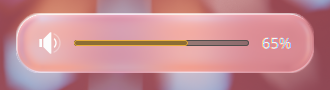
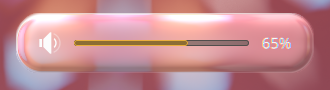
KDE: make the glass edge read as curved, not brightened
The bezel now samples the unblurred background so it acts as a crisp lens
around the frosted middle, is shaded by its curvature (EdgeClarity,
EdgeShading), and the rim light is limited to a thin line instead of
lighting the whole bezel. Retake the screenshots.

Changed region(s): [[0.0606, 0.3111, 0.9697, 0.8222], [0.0303, 0.1556, 0.9394, 0.6222]]

diff --git a/kde-liquid-glass/src/liquidglass.cpp b/kde-liquid-glass/src/liquidglass.cpp
@@ -97,6 +97,7 @@ LiquidGlassEffect::LiquidGlassEffect()
     m_glassPass.opacityLocation = m_glassPass.shader->uniformLocation("opacity");
     m_glassPass.cornerRadiusLocation = m_glassPass.shader->uniformLocation("corner_radius");
     m_glassPass.tintLocation = m_glassPass.shader->uniformLocation("tint");
+    m_glassPass.sharpLocation = m_glassPass.shader->uniformLocation("sharpUnit");
 
     // Defaults: the Three.js prototype's lighting, with a frosted body and a refractive bezel.
     m_params = {
@@ -111,7 +112,7 @@ LiquidGlassEffect::LiquidGlassEffect()
         {"SpecularIntensity", "specular_intensity", 0.0},
         {"Shininess", "shininess", 42.0},
         {"RimWidth", "rim_width", 2.0},
-        {"RimIntensity", "rim_intensity", 1.0},
+        {"RimIntensity", "rim_intensity", 0.6},
         {"RimDirectionalPower", "rim_directional_power", 1.7},
         {"RimPower", "rim_power", 8.0},
         {"RimLightColorIntensity", "rim_light_color_intensity", 2.5},
@@ -120,6 +121,8 @@ LiquidGlassEffect::LiquidGlassEffect()
         {"Brightness", "brightness", 1.05},
         {"Contrast", "contrast", 1.0},
         {"Saturation", "saturation", 1.4},
+        {"EdgeClarity", "edge_clarity", 0.75},
+        {"EdgeShading", "edge_shading", 0.35},
     };
     for (FloatParam &param : m_params) {
         param.location = m_glassPass.shader->uniformLocation(param.uniform);
@@ -751,12 +754,21 @@ void LiquidGlassEffect::blur(const RenderTarget &renderTarget, const RenderViewp
             shader->setUniform(param.location, param.value);
         }
 
+        // Unit 1: the unblurred background (textures[0]), sampled sharp in the bezel.
+        shader->setUniform(m_glassPass.sharpLocation, 1);
+        glActiveTexture(GL_TEXTURE1);
+        renderInfo.textures[0]->bind();
+        glActiveTexture(GL_TEXTURE0);
         read->colorAttachment()->bind();
 
         glEnable(GL_BLEND);
         glBlendFunc(GL_ONE, GL_ONE_MINUS_SRC_ALPHA);
         vbo->draw(GL_TRIANGLES, 6, vertexCount);
         glDisable(GL_BLEND);
+
+        glActiveTexture(GL_TEXTURE1);
+        renderInfo.textures[0]->unbind();
+        glActiveTexture(GL_TEXTURE0);
 
         ShaderManager::instance()->popShader();
     }

diff --git a/kde-liquid-glass/src/liquidglass.h b/kde-liquid-glass/src/liquidglass.h
@@ -109,6 +109,7 @@ private:
         int opacityLocation;
         int cornerRadiusLocation;
         int tintLocation;
+        int sharpLocation;
     } m_glassPass;
 
     /// Scalar shader uniforms read straight from kwinrc [Effect-liquidglass]: {config key, uniform, default}.

diff --git a/kde-liquid-glass/README.md b/kde-liquid-glass/README.md
@@ -41,7 +41,9 @@ KRunner, and translucent apps and decorations. KWin's background capture and dua
 blur are kept as they are. The final composite pass (`src/shaders/glass.frag`) is the
 Three.js prototype's shader, ported to KWin: a superellipse bezel that bends the
 background near the edges, Snell refraction, chromatic aberration, and additive rim,
-specular and sheen lighting. The highlight sits on the edge facing the light, with a faint
+specular and sheen lighting. The bezel samples the unblurred background, so it acts as a
+crisp lens around the frosted middle, and is shaded by its own curvature: lighter on the
+side facing the light, slightly darker on the side away from it. The highlight sits on the edge facing the light, with a faint
 one opposite, instead of an outline all the way round. The defaults give a frosted body
 with a clearly refracting bezel.
 
@@ -119,7 +121,9 @@ qdbus6 org.kde.KWin /KWin reconfigure
 | ProfileShapeN | 3.4 | dome curvature (superellipse n) |
 | EdgeSmoothing | 2.4 | |
 | ChromaStrength | 0.006 | chromatic aberration |
-| RimWidth / RimIntensity / RimPower / RimDirectionalPower / RimLightColorIntensity | 2 / 1.0 / 8 / 1.7 / 2.5 | |
+| RimWidth / RimIntensity / RimPower / RimDirectionalPower / RimLightColorIntensity | 2 / 0.6 / 8 / 1.7 / 2.5 | |
+| EdgeClarity | 0.75 | 0–1, how sharp (unblurred) the lensed background is in the bezel |
+| EdgeShading | 0.35 | 0–1, light/dark shading across the bezel from its curvature |
 | SpecularIntensity / Shininess | 0 / 42 | |
 | SheenIntensity | 0.1 | |
 | LightAngle | 120 | degrees, counter-clockwise from the right (120 = upper left) |
